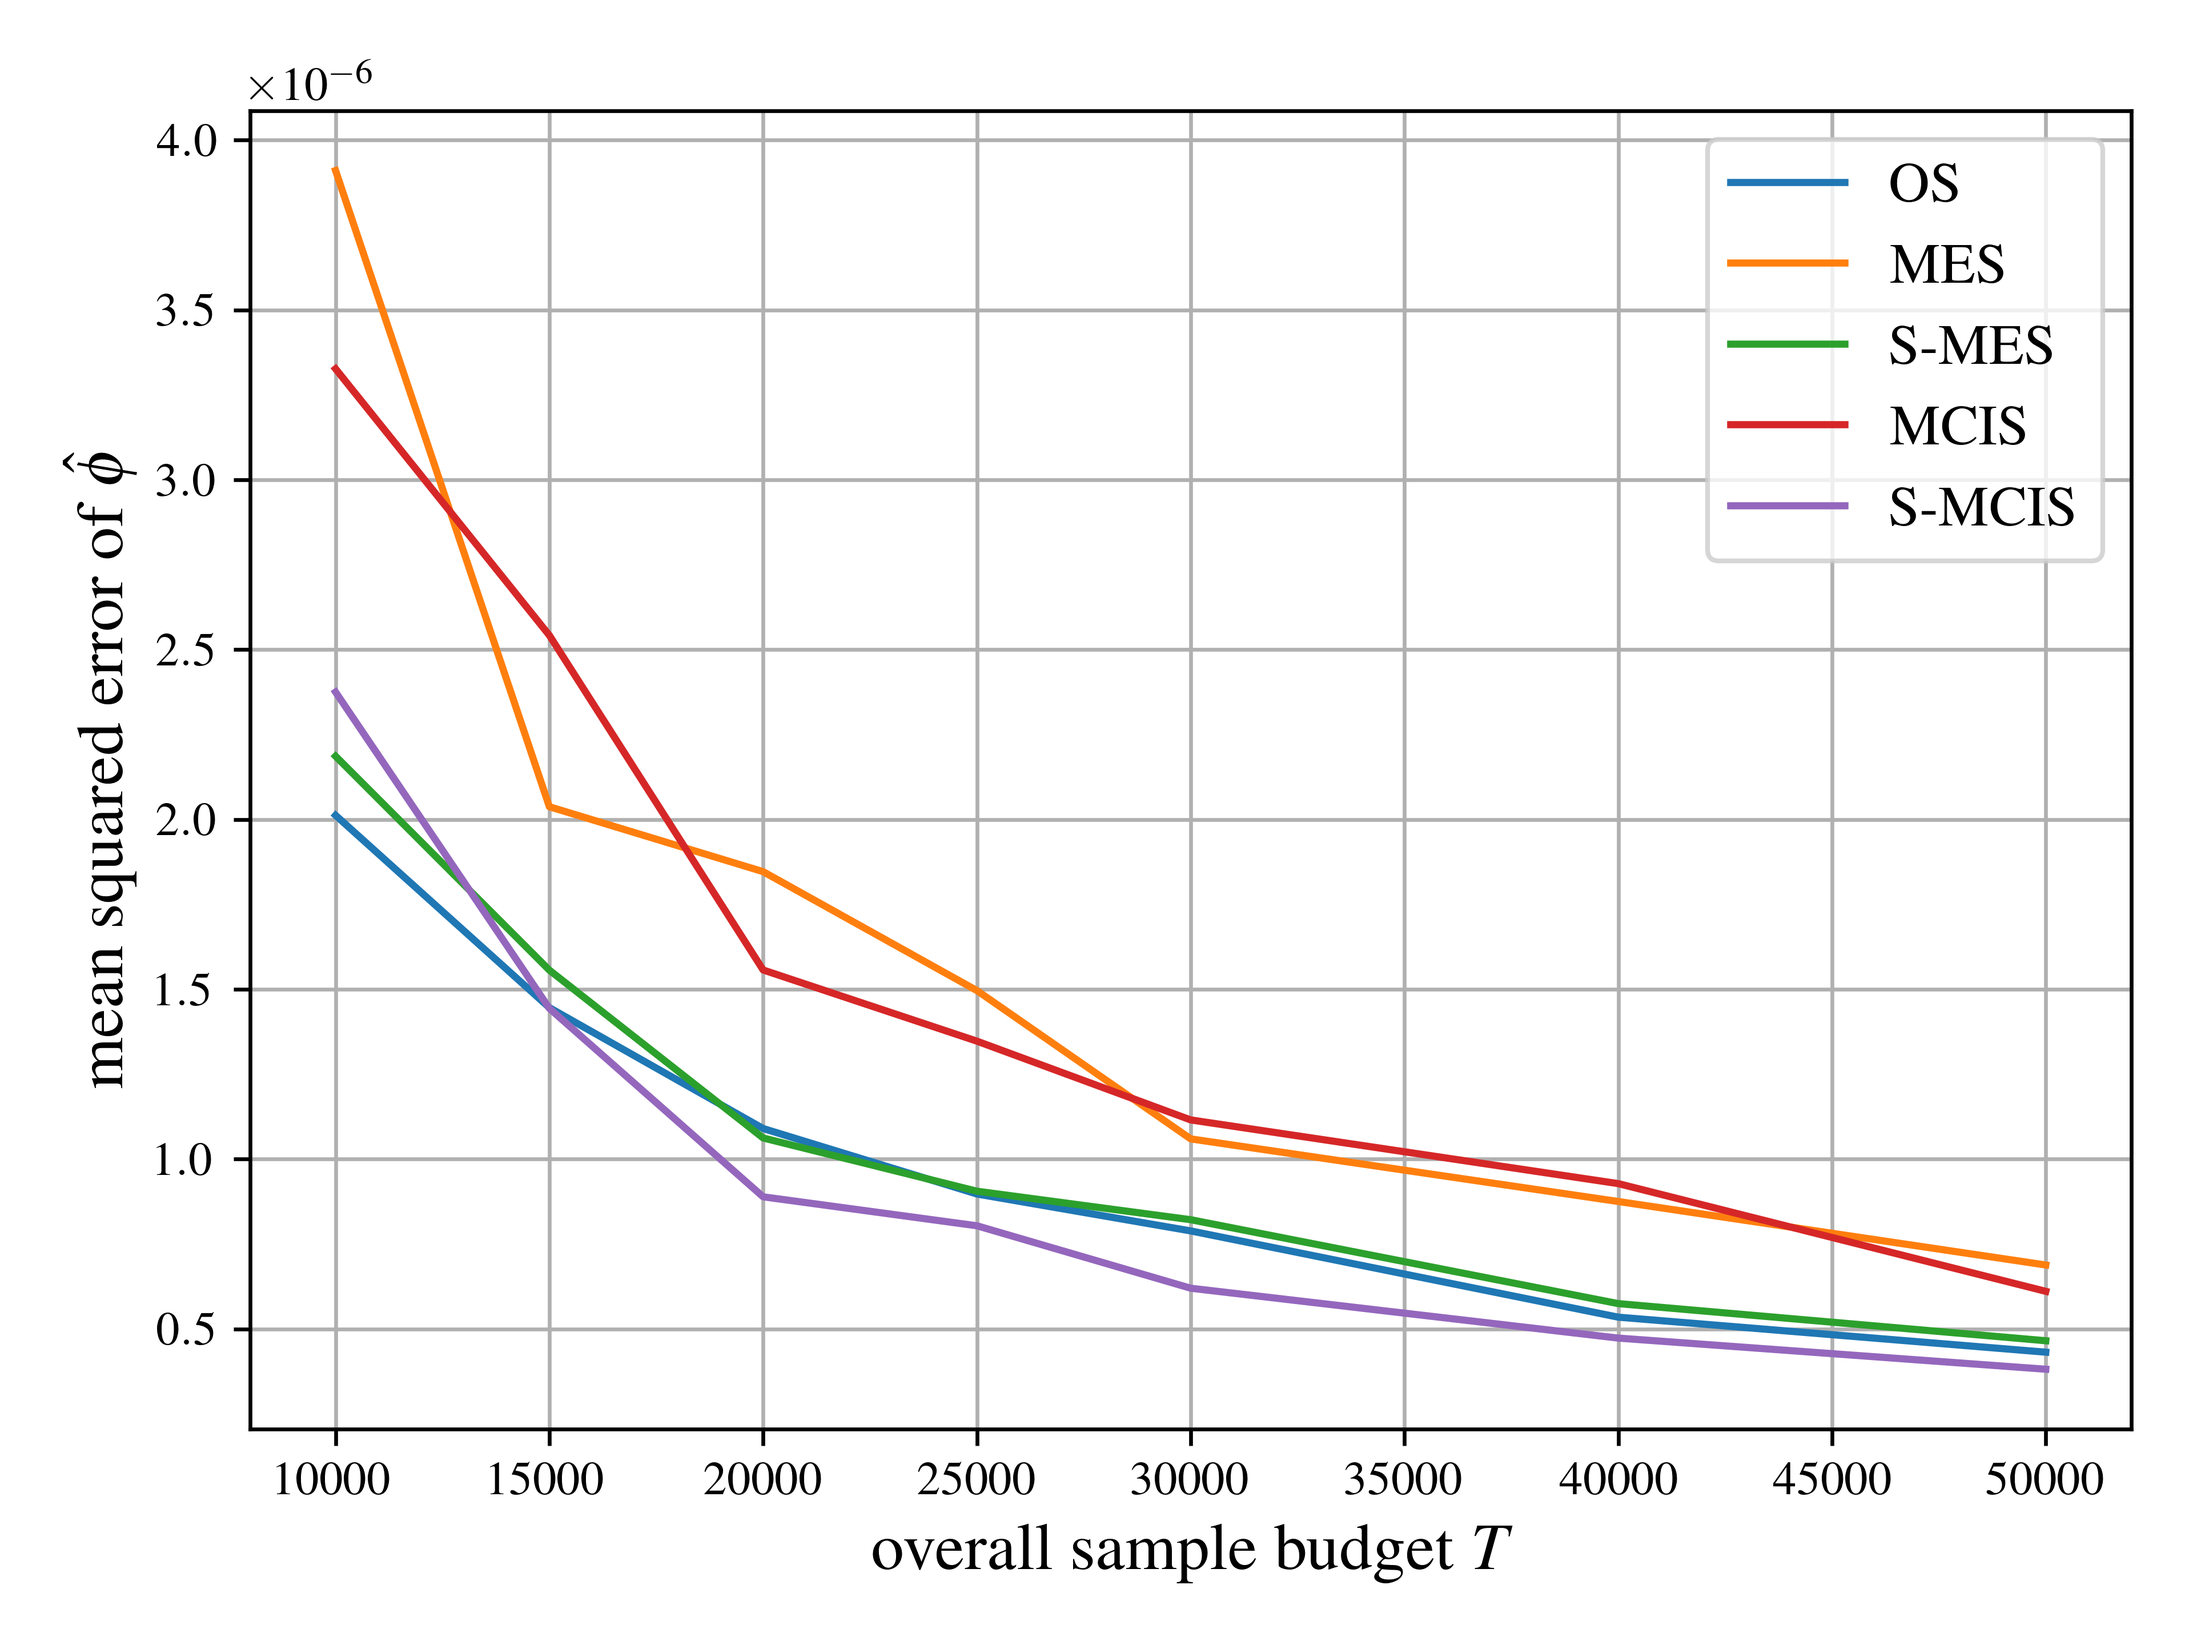
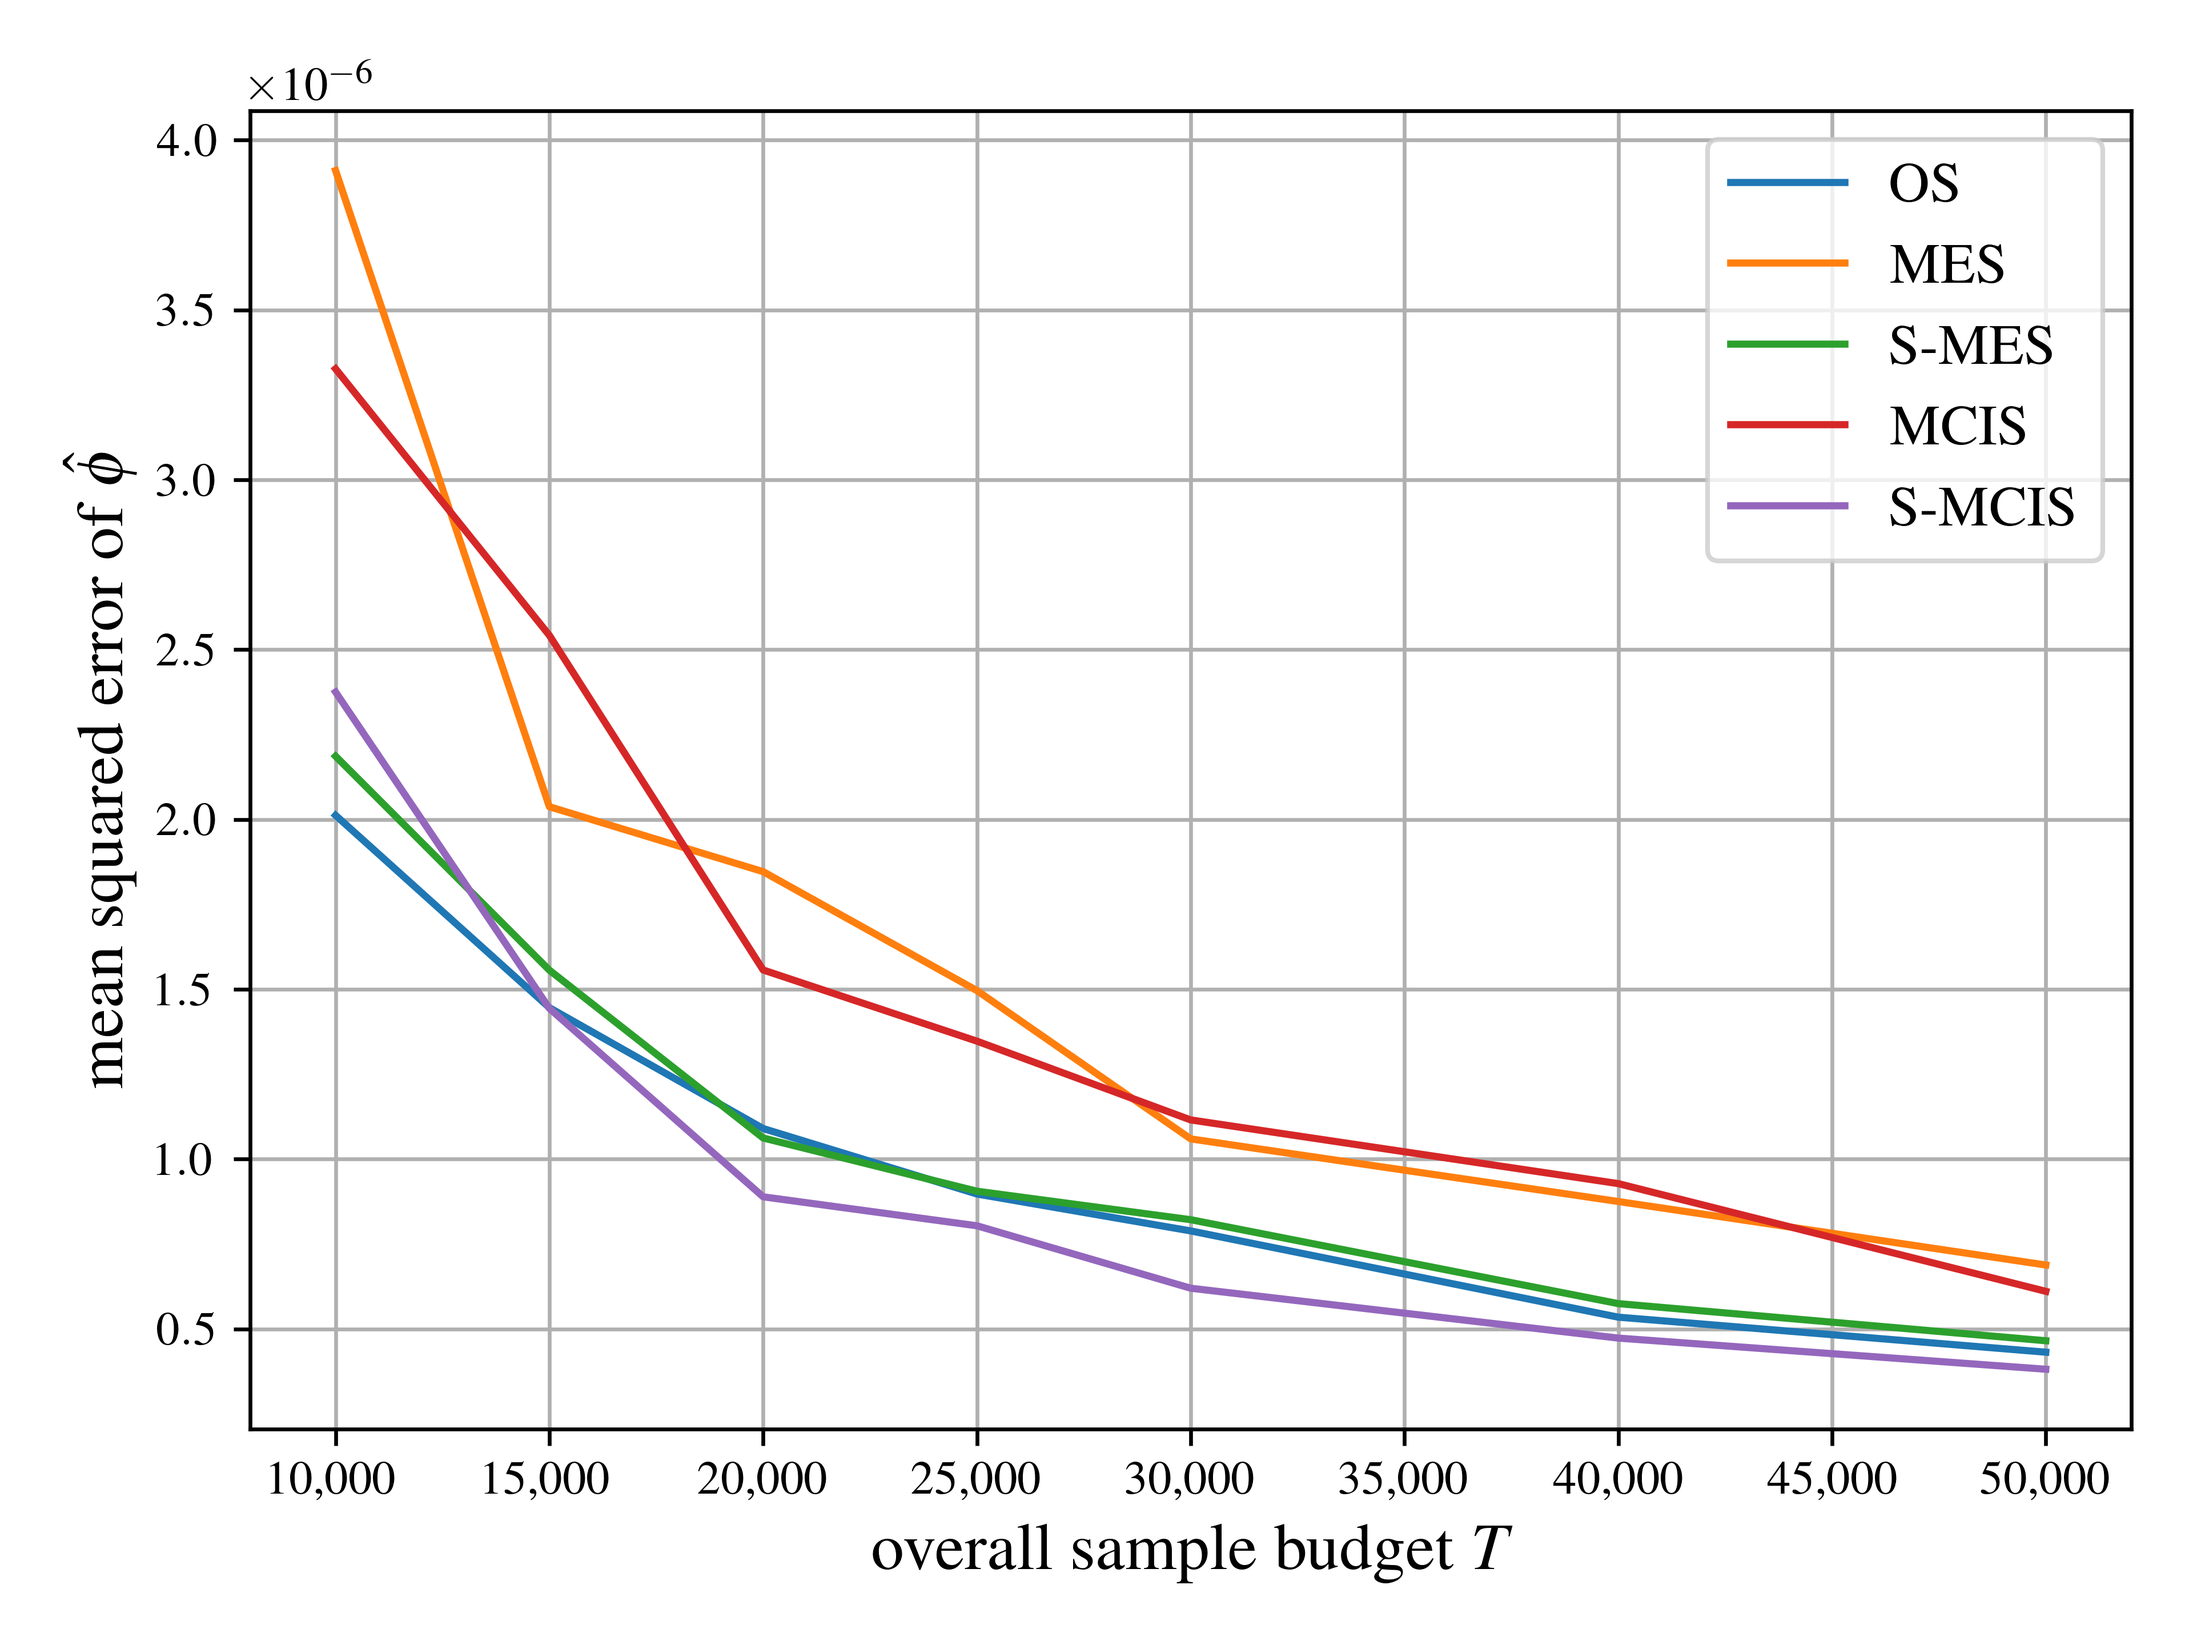
Update figures to match journal style guide

diff --git a/src/shapley_mcis_mes/scripts/utils/plot_mse_comparison.py b/src/shapley_mcis_mes/scripts/utils/plot_mse_comparison.py
@@ -1,7 +1,10 @@
 import matplotlib.pyplot as plt
 import pandas as pd
 
-from shapley_mcis_mes.scripts.utils.update_plt_params import update_plt_params
+from shapley_mcis_mes.scripts.utils.update_plt_params import (
+    format_with_commas,
+    update_plt_params,
+)
 
 
 def plot_mse_comparison(experiment_name: str) -> None:
@@ -13,6 +16,7 @@ def plot_mse_comparison(experiment_name: str) -> None:
         plt.plot(df.index, df[col], label=col)
 
     plt.ticklabel_format(style="sci", axis="y", scilimits=(-1, 1))
+    plt.gca().xaxis.set_major_formatter(plt.FuncFormatter(format_with_commas))
     plt.xlabel(r"overall sample budget $T$")
     plt.ylabel(r"mean squared error of $\hat{\phi}$")
     plt.legend()

diff --git a/src/shapley_mcis_mes/scripts/utils/plot_bias_comparison.py b/src/shapley_mcis_mes/scripts/utils/plot_bias_comparison.py
@@ -1,7 +1,10 @@
 import pandas as pd
 from matplotlib import pyplot as plt
 
-from shapley_mcis_mes.scripts.utils.update_plt_params import update_plt_params
+from shapley_mcis_mes.scripts.utils.update_plt_params import (
+    format_with_commas,
+    update_plt_params,
+)
 
 
 def plot_bias_comparison(experiment_name: str, player: int) -> None:
@@ -18,6 +21,7 @@ def plot_bias_comparison(experiment_name: str, player: int) -> None:
         )
 
     plt.ticklabel_format(style="sci", axis="y", scilimits=(-1, 1))
+    plt.gca().xaxis.set_major_formatter(plt.FuncFormatter(format_with_commas))
     plt.xlabel(r"overall sample budget $T$")
     plt.ylabel(r"bias of $\hat{\phi}_" + f"{player+1}$")
     plt.legend()

diff --git a/src/shapley_mcis_mes/scripts/utils/update_plt_params.py b/src/shapley_mcis_mes/scripts/utils/update_plt_params.py
@@ -15,3 +15,10 @@ def update_plt_params() -> None:
             "text.latex.preamble": r"\usepackage{amsfonts} \usepackage{amsmath}",
         }
     )
+
+
+def format_with_commas(x: int | float, _) -> str:
+    if abs(x) >= 10000:
+        return f"{x:,.0f}"
+
+    return f"{x:g}"
